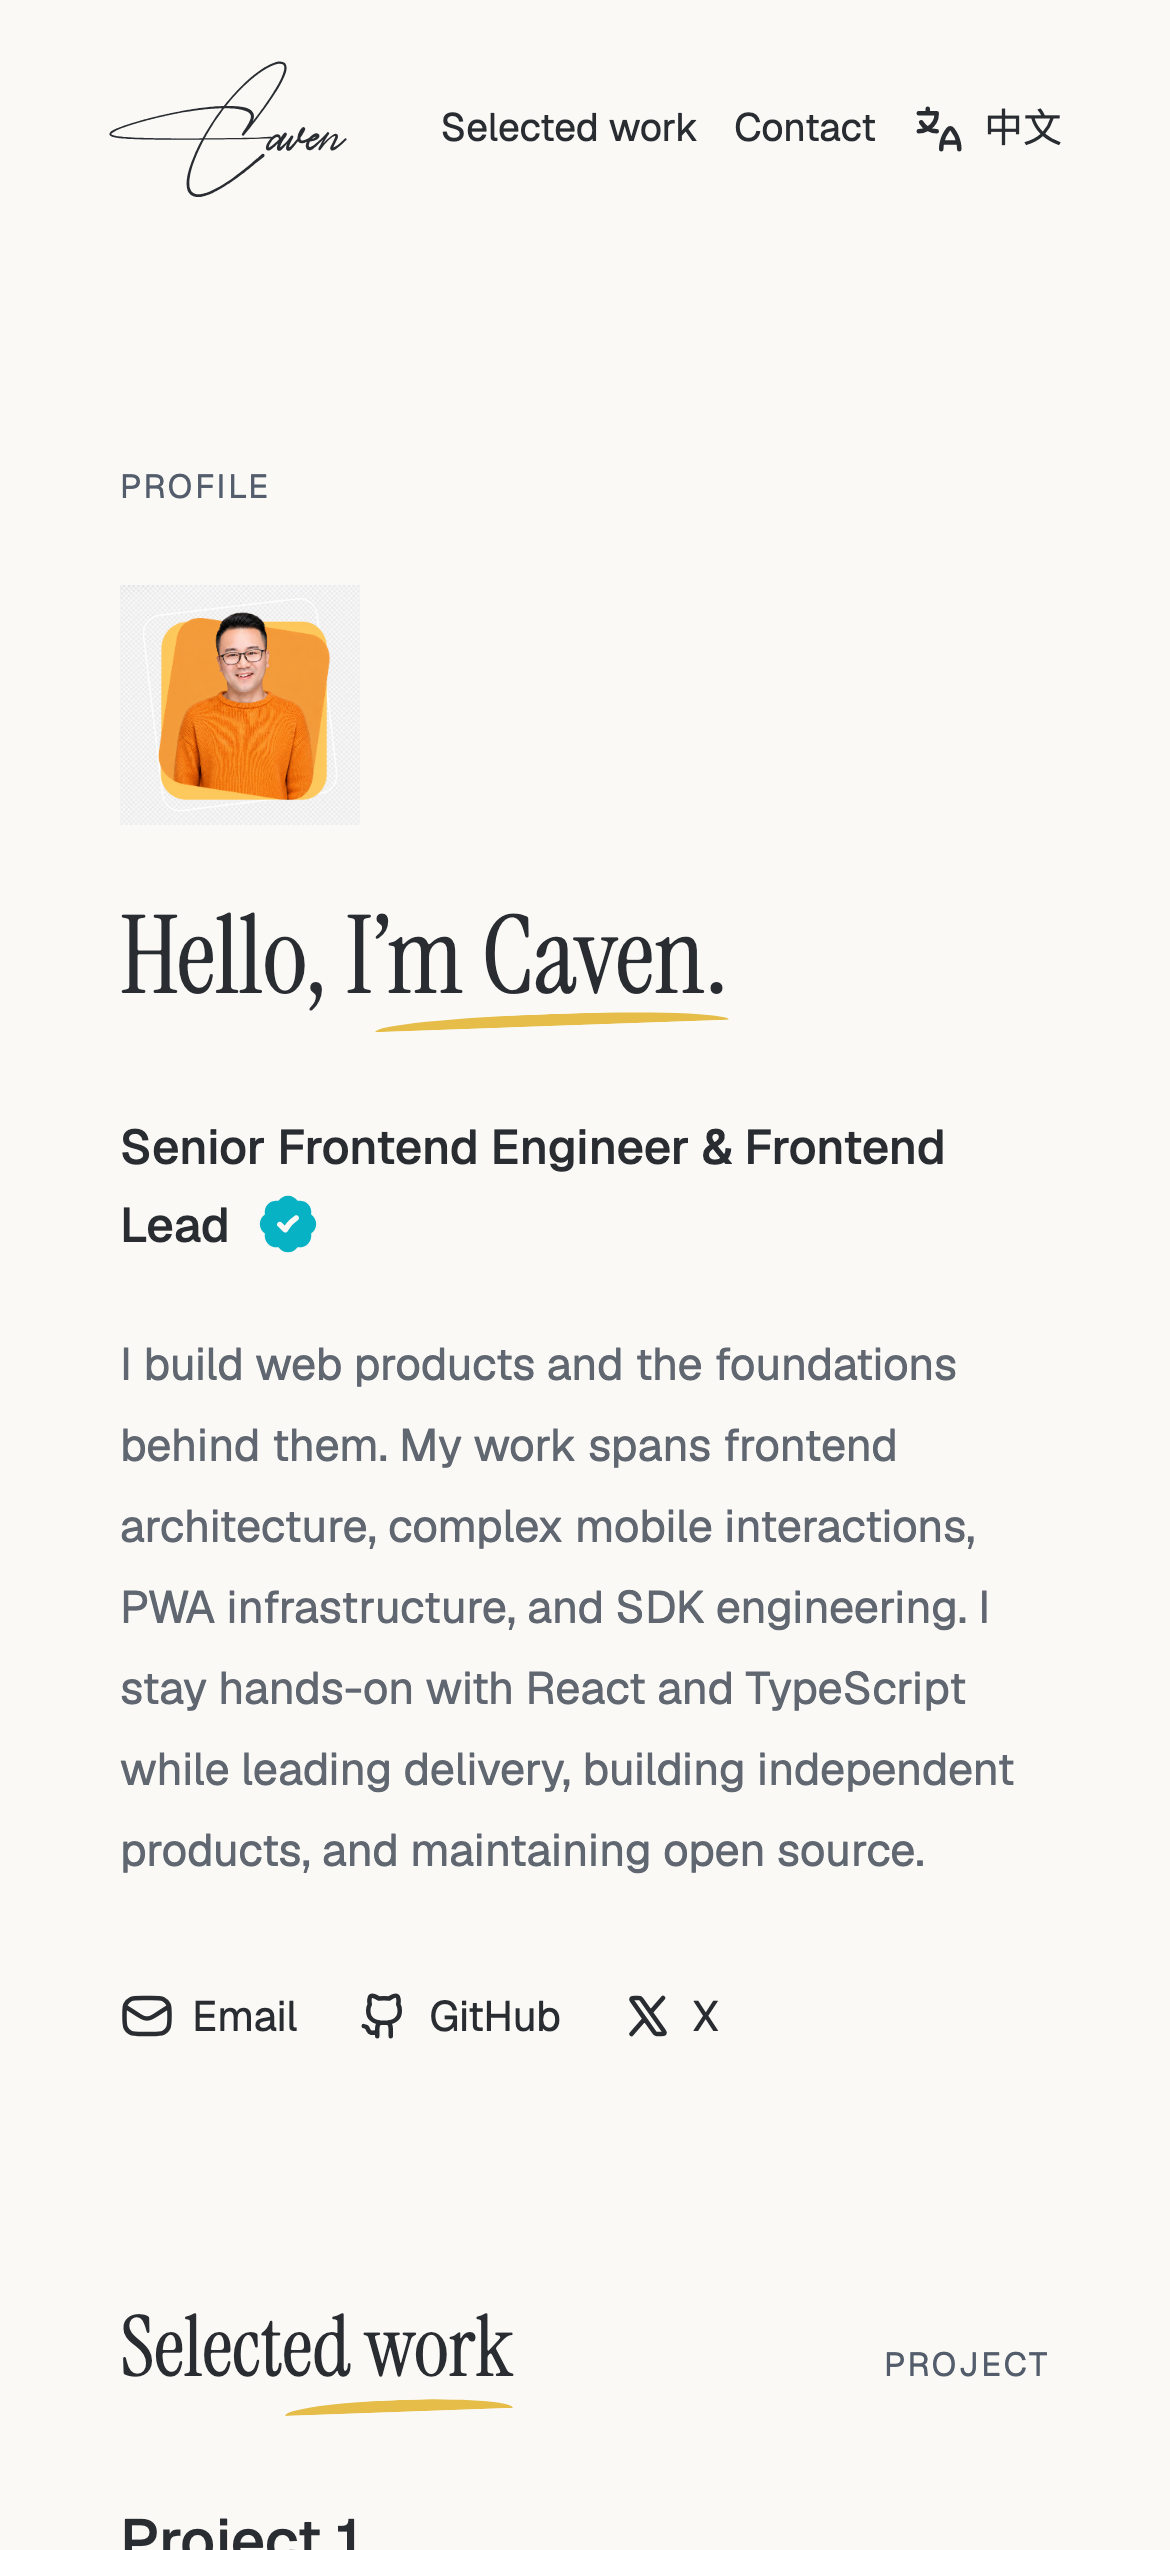
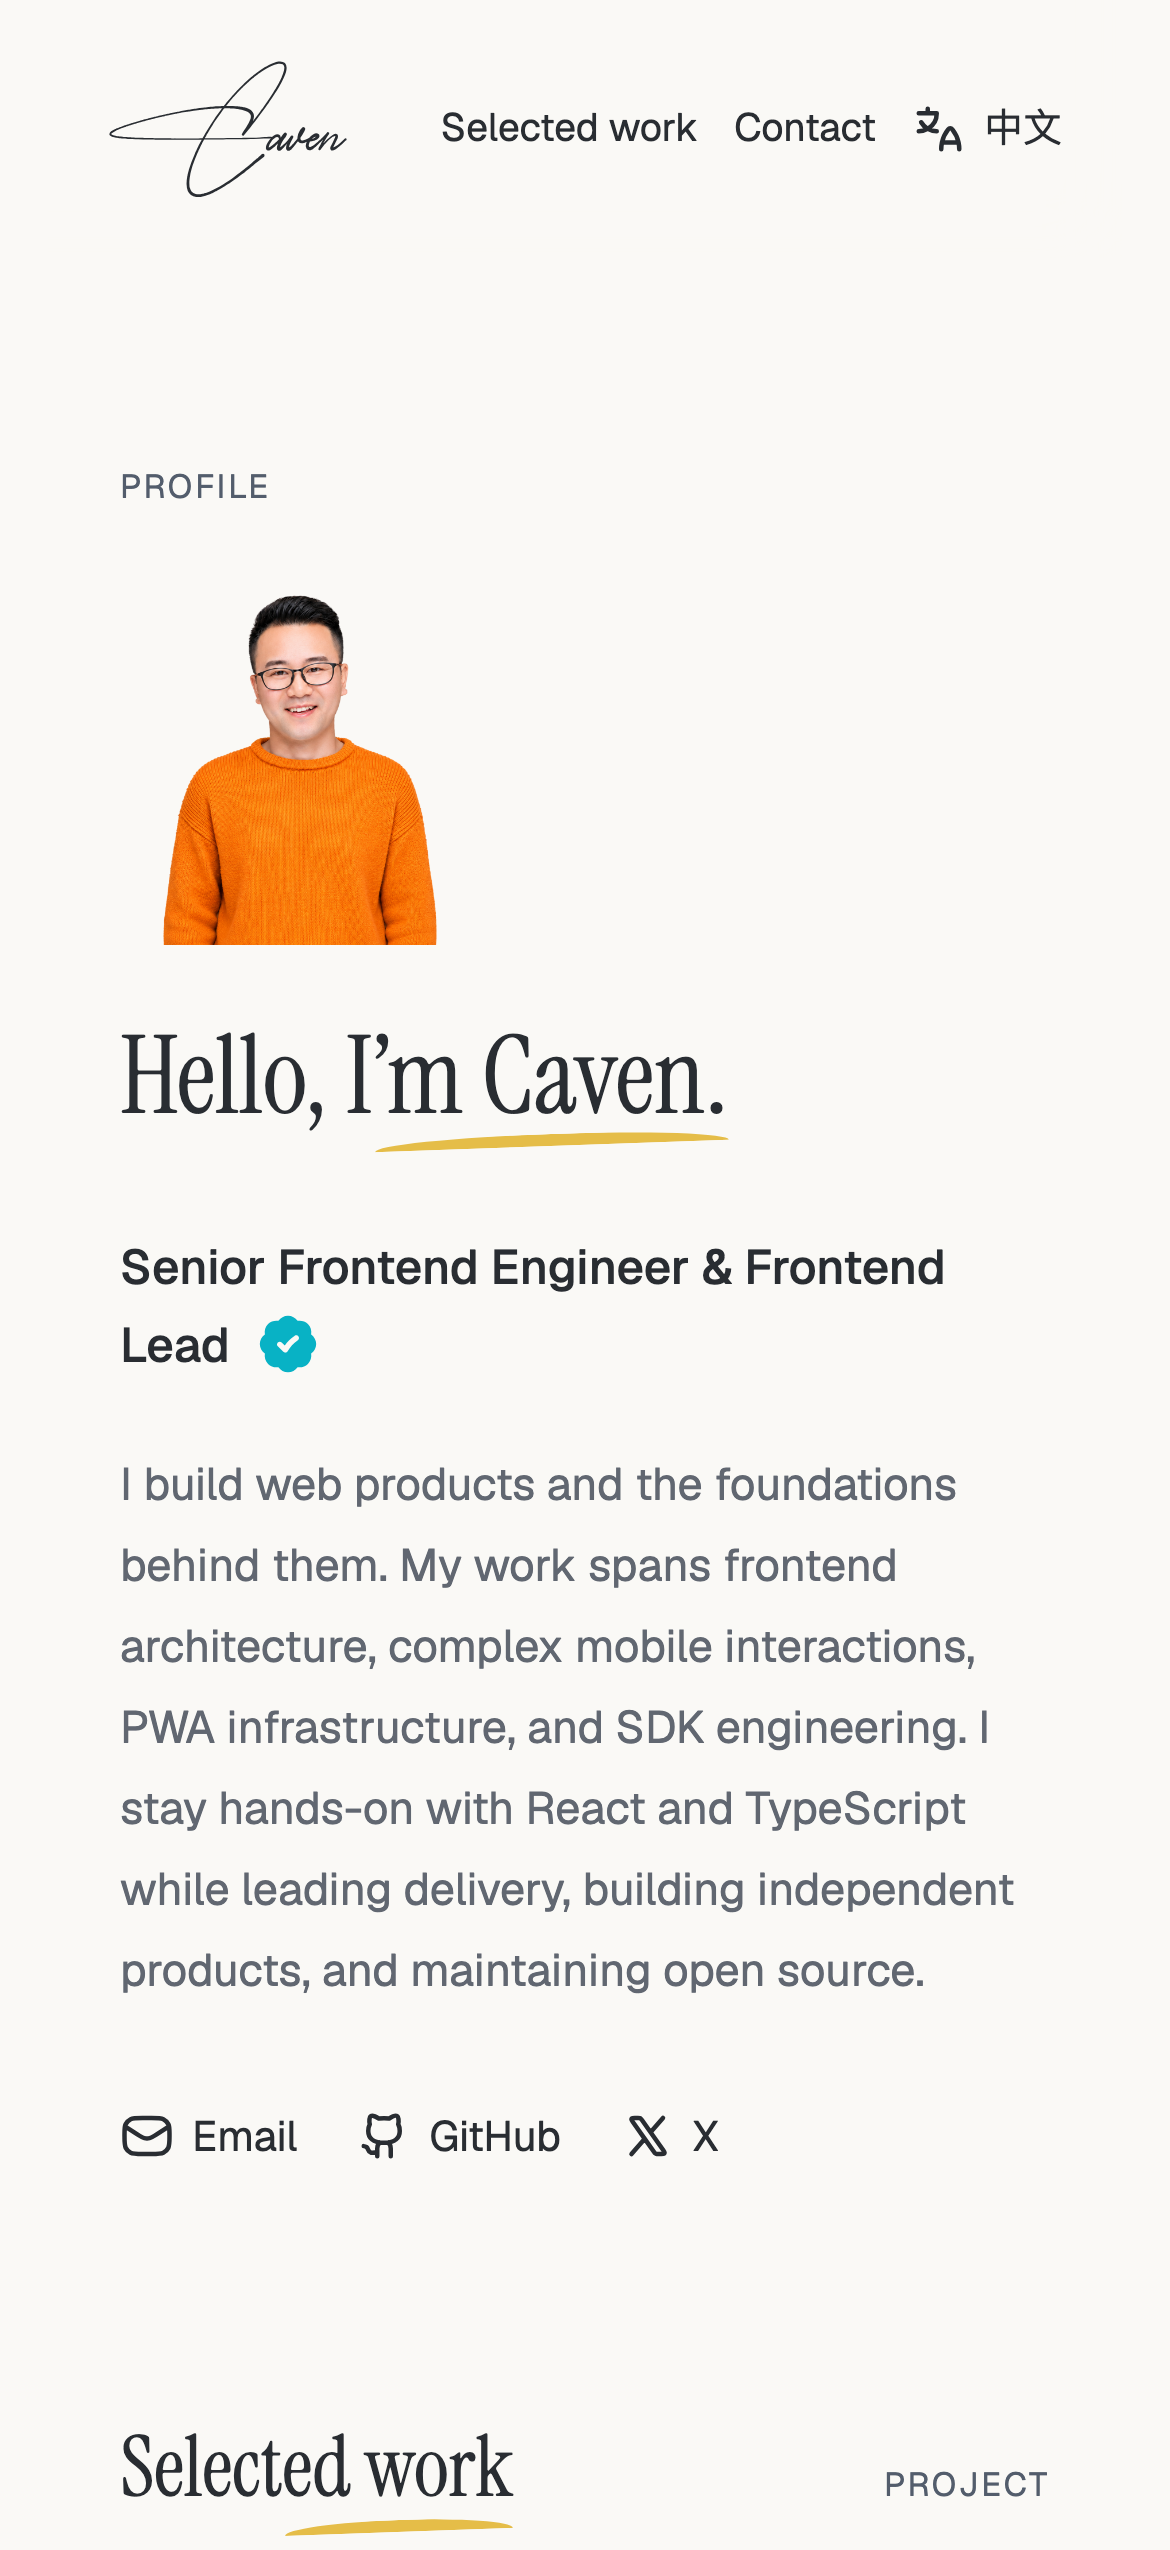
fix: use transparent portrait and full-width introduction

diff --git a/src/styles/global.css b/src/styles/global.css
@@ -45,9 +45,8 @@ main {
 }
 .intro-layout {
   display: grid;
-  grid-template-columns: minmax(0, 1fr) 132px;
-  align-items: center;
-  gap: 48px;
+  grid-template-columns: minmax(0, 1fr);
+  gap: 24px;
   margin-top: 32px;
 }
 h1,
@@ -83,12 +82,10 @@ h3 {
   width: 65%;
 }
 .portrait-slot {
-  display: grid;
-  place-items: center;
-  aspect-ratio: 1;
+  display: block;
+  width: 120px;
+  height: auto;
   object-fit: contain;
-  color: #46566e;
-  font-size: 12px;
 }
 .section-heading {
   display: flex;
@@ -372,10 +369,7 @@ h3 {
     gap: 24px;
     margin-top: 24px;
   }
-  .portrait-slot {
-    width: 80px;
-    grid-row: 1;
-  }
+
   .project-grid {
     grid-template-columns: minmax(0, 1fr);
     gap: 40px;
@@ -533,7 +527,6 @@ a:hover {
   font-size: 15px;
   line-height: 1.8;
   color: #616771;
-  max-width: 58ch;
 }
 .intro-contacts {
   margin-top: 20px;

diff --git a/docs/identity-review.md b/docs/identity-review.md
@@ -13,9 +13,10 @@ frontend architecture, mobile interaction, PWA, SDK, React/TypeScript, team deli
 independent product and open-source experience without adding dates, metrics, or
 employer/project claims. The English and Chinese versions have equivalent meaning.
 The source document was only read, and is not included in this repository.
-The low-resolution extracted portrait has been replaced by Caven's supplied 1254px
-PNG. It is served unchanged, without a circular background or cropping. Its RGB
-source contains a visible checkerboard and no alpha channel.
+The portrait uses Caven's supplied 2508px RGBA PNG with actual transparency. It is
+served unchanged, without a circular background or cropping, above the greeting
+and aligned with the text. The introduction spans the available text column; the
+previous 58ch cap was removed after the portrait moved out of the right column.
 
 Project, experience, toolkit and additional-work details remain localized
 placeholders for #5–7. Their real content and a public resume download are outside

diff --git a/README.md b/README.md
@@ -106,7 +106,7 @@ preserves valid page fragments when JavaScript is available.
 
 Geist (400/500) and Instrument Serif (400) are bundled from pinned Fontsource
 packages, with local Chinese system fallbacks. They make no external font requests.
-Both packages include their SIL Open Font License. The portrait uses the user-supplied 1254px PNG without cropping or a circular background. Its checkerboard is baked into the RGB source; a truly transparent replacement remains possible. The source resume
+Both packages include their SIL Open Font License. The portrait uses the user-supplied 2508px transparent PNG without cropping or a circular background. It sits above the greeting, aligned with the text. The source resume
 and phone number are not distributed. The outlined signature and Tianchi candidate
 are reused from #3. `noindex` remains until the discovery/release slice (#9).
 
